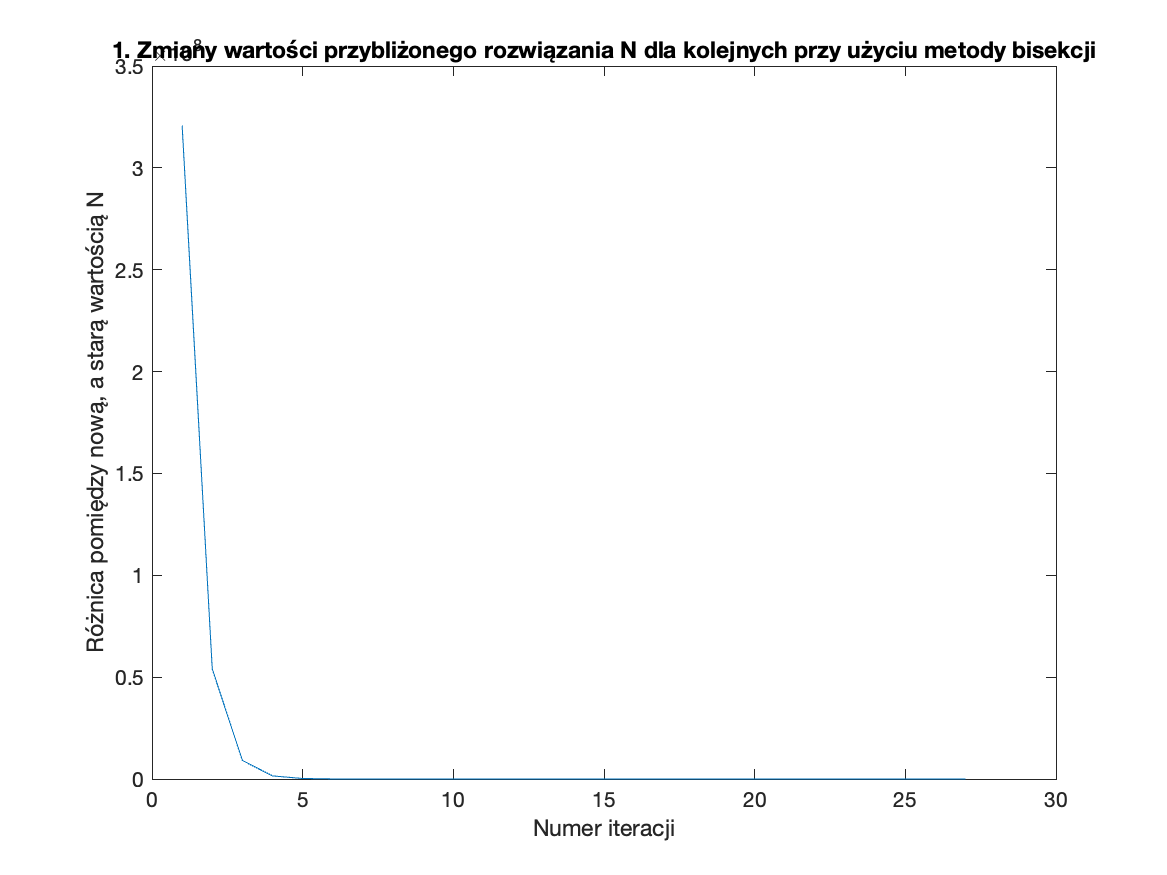
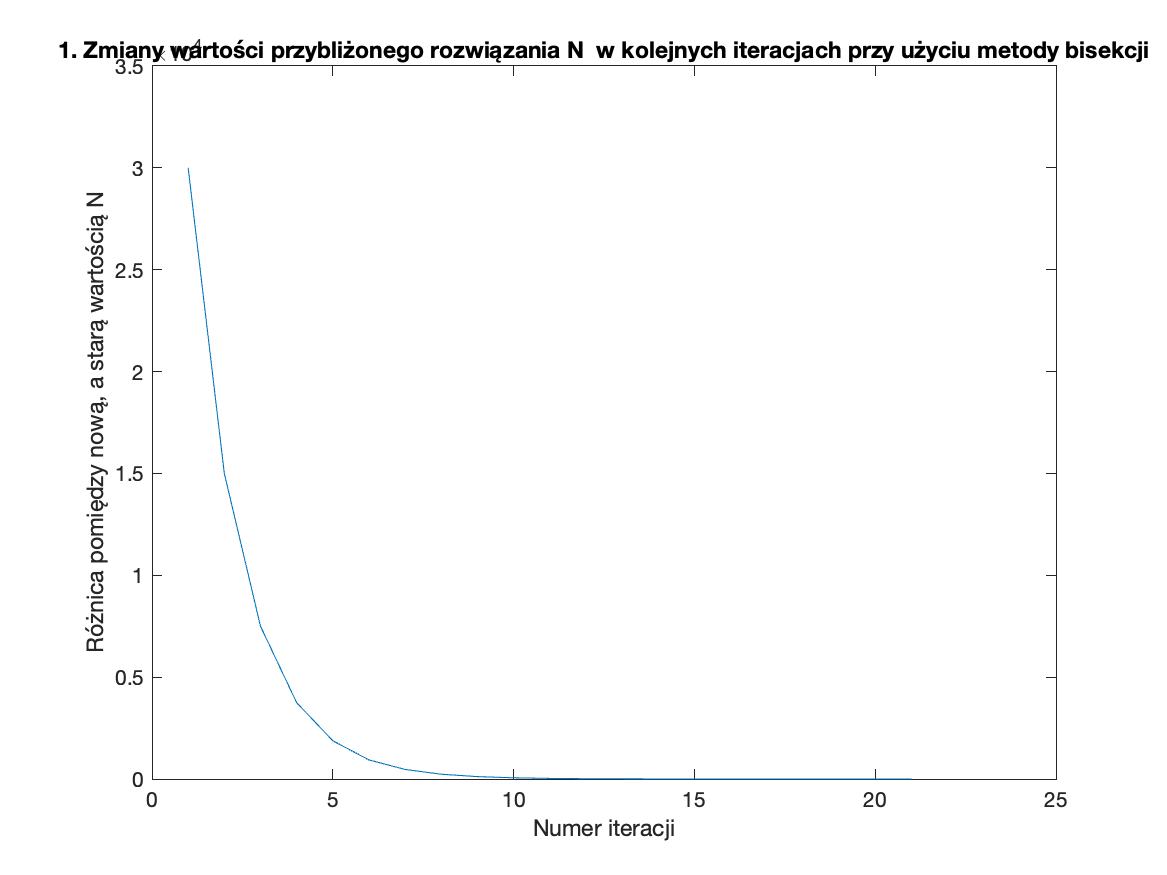
ex2 plots

diff --git a/lab3/main_lab4.m b/lab3/main_lab4.m
@@ -16,7 +16,59 @@ saveas(gcf, 'ex1BisectionValues.png');
 
 figure(2);
 plot(1:it_cnt, xdif)
-title("1. Zmiany wartości przybliżonego rozwiązania N dla kolejnych przy użyciu metody bisekcji");
+title("1. Zmiany wartości przybliżonego rozwiązania N  w kolejnych iteracjach przy użyciu metody bisekcji");
 ylabel("Różnica pomiędzy nową, a starą wartością N");
 xlabel("Numer iteracji");
 saveas(gcf, 'ex1BisectionDiff.png');
+
+% 1 secant
+
+figure(3);
+[xvect, xdif, fx, it_cnt] = secant(@time,1,60000,10^-3);
+semilogy(1:it_cnt, xvect)
+title("1. Wartość kolejnego przybliżenia rozwiązania N w kolejnych iteracjach przy użyciu metody siecznych");
+ylabel("Liczba parametrów wejściowych N");
+xlabel("Numer iteracji");
+saveas(gcf, 'ex1SecantValues.png');
+
+figure(4);
+plot(1:it_cnt, xdif)
+title("1. Zmiany wartości przybliżonego rozwiązania N dla kolejnych przy użyciu metody siecznych");
+ylabel("Różnica pomiędzy nową, a starą wartością N");
+xlabel("Numer iteracji");
+saveas(gcf, 'ex1SecantDiff.png');
+
+
+% 2 bisection
+[xvect,xdif,fx,it_cnt] = bisection(@compute_impedance, 0, 50, 10^-12);
+figure(5);
+semilogy(1:it_cnt, xvect)
+title("2.  Wartość kolejnego przybliżenia rozwiązania omega w kolejnych iteracjach przy użyciu metody bisekcji");
+ylabel("Przybliżona wartość prędkości kątowej omega[rad/s]");
+xlabel("Numer iteracji");
+saveas(gcf, 'ex2BisectionValues.png');
+
+figure(6);
+plot(1:it_cnt, xdif)
+title("2.Zmiany wartości przybliżonego rozwiązania omega w kolejnych iteracjach przy użyciu metody bisekcji");
+ylabel("Różnica pomiędzy pomiędzy nową, a starą wartością prędkości kątowej omega[rad/s]");
+xlabel("Numer iteracji");
+saveas(gcf, 'ex2BisectionDiff.png');
+
+% 2 secant
+[xvect,xdif,fx,it_cnt] = secant(@compute_impedance, 0, 50, 10^-12);
+figure(7);
+semilogy(1:it_cnt, xvect)
+title("2.  Wartość kolejnego przybliżenia rozwiązania omega w kolejnych iteracjach przy użyciu metody siecznych");
+ylabel("Przybliżona wartość prędkości kątowej omega[rad/s]");
+xlabel("Numer iteracji");
+saveas(gcf, 'ex2SecantValues.png');
+
+figure(8);
+plot(1:it_cnt, xdif)
+title("2.Zmiany wartości przybliżonego rozwiązania omega w kolejnych iteracjach przy użyciu metody siecznych");
+ylabel("Różnica pomiędzy pomiędzy nową, a starą wartością prędkości kątowej omega[rad/s]");
+xlabel("Numer iteracji");
+saveas(gcf, 'ex2SecantDiff.png');
+
+

diff --git a/lab3/compute_impedance.m b/lab3/compute_impedance.m
@@ -2,8 +2,7 @@ function [value] = compute_impedance( omega )
 R = 725;
 C = 8*10^-5;
 L = 2;
-
-Z = 1 / ((1/R^2) + (omega*C - (1/(omega*L)^2)));
+Z = 1/(sqrt((1/R^2) + (omega*C - 1/omega*L)^2));
 value = Z - 75;
 
 end

diff --git a/lab3/bisection.m b/lab3/bisection.m
@@ -20,7 +20,7 @@ for i = 1:1000
     
     it_cnt = i;
     xvect(i) = c;
-    xdif(i) = abs(old - fc);
+    xdif(i) = abs(old - c);
     fx(i) = fc;
     old = c;
 

diff --git a/lab3/time.m b/lab3/time.m
@@ -1,6 +1,5 @@
 function [value] = time( N )
 
-value = (N^1.43 * N^1.14)/1000;
-value = value - 5000;
+value = ((N^1.43 + N^1.14)/1000) - 5000;
 end
 
